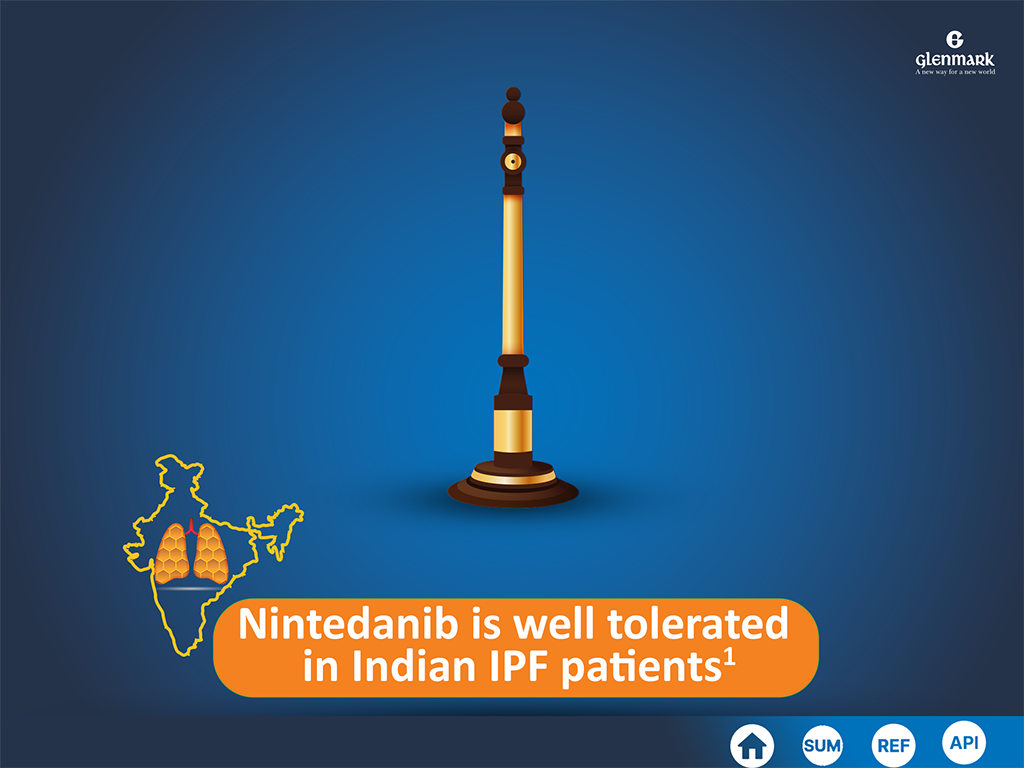
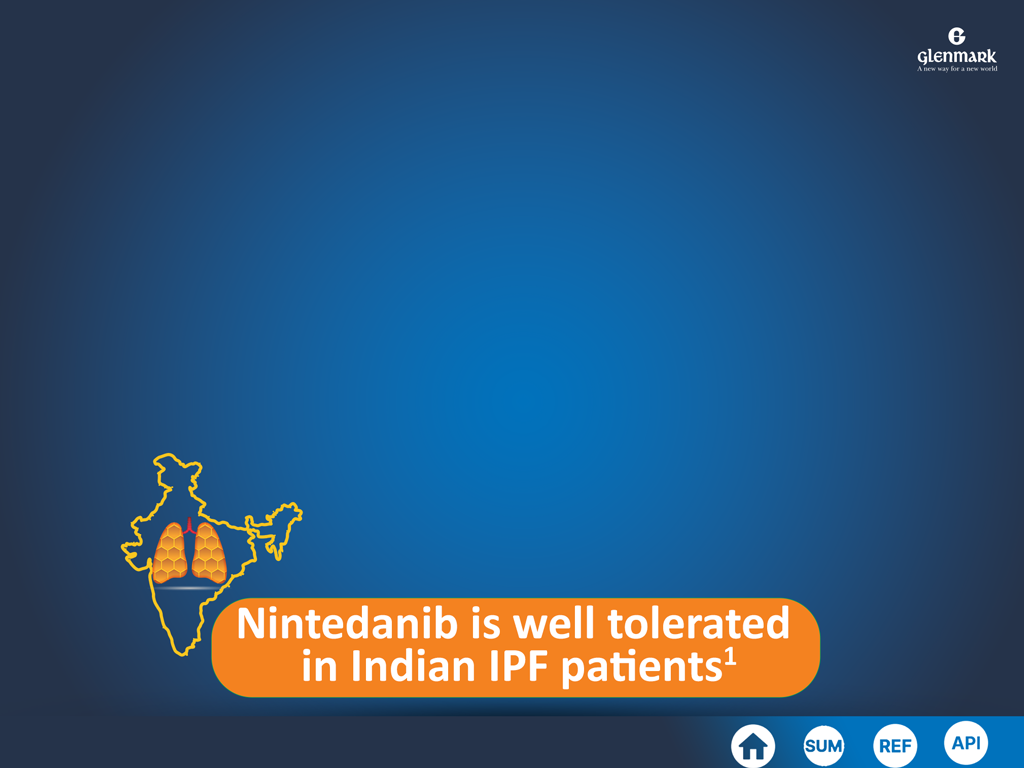
update

diff --git a/index.html b/index.html
@@ -71,7 +71,7 @@ if (typeof(localStorage.getItem("currentcustomslideflag"))!='undefined' && local
 	content='<link rel="stylesheet" type="text/css" href="slide1/slide1.css" media="screen"/><div class="background"><img src="slide2/1.jpg" width="1024" height="768" alt=""></div><div class="hit_1"><img src="slide2/2.jpg" width="1024" height="768" alt=""/></div><div class="hit_pop1" onclick="hit_pop1()"></div><div class="hit_2"><img src="slide3/3.jpg" width="1024" height="768" alt=""/></div><div class="hit_pop2" onclick="hit_pop2()"></div><div class="hit_close1" onclick="hit_close1()"></div><div class="takeCover" onclick="takeCover();"></div><div class="takeSum" onclick="takeSum();"></div>';
 	break;
 	case 3:
-	content='<link rel="stylesheet" type="text/css" href="slide1/slide1.css" media="screen"/><div class="background"><img src="slide3/1.jpg" width="1024" height="768" alt=""></div><div class="hit_1"><img src="slide3/2.jpg" width="1024" height="768" alt=""/></div><div class="hit_pop1" onclick="hit_pop1()"></div><div class="hit_2"><img src="slide3/3.jpg" width="1024" height="768" alt=""/></div><div class="hit_pop2" onclick="hit_pop2()"></div><div class="hit_close1" onclick="hit_close1()"></div><div class="takeCover" onclick="takeCover();"></div><div class="takeSum" onclick="takeSum();"></div>';
+	content='<link rel="stylesheet" type="text/css" href="slide1/slide1.css" media="screen"/><div class="s1_1"><img src="slide1/s1_1.png" width="1024" height="768" alt=""/></div><div class="s1_2"><img src="slide1/s1_2.png"/></div><div class="s1_3"><img src="slide1/s1_3.png"/></div><div class="s1_4"><img src="slide1/s1_4.png"/></div><div class="hit_1"><img src="slide1/2.jpg" width="1024" height="768" alt=""/></div><div class="hit_pop1" onclick="hit_pop1()"></div><div class="hit_2"><img src="slide3/3.jpg" width="1024" height="768" alt=""/></div><div class="hit_pop2" onclick="hit_pop2()"></div><div class="hit_close1" onclick="hit_close1()"></div><div class="takeCover" onclick="takeCover();"></div><div class="takeSum" onclick="takeSum();"></div>';
 	break;
 	}
 
@@ -82,7 +82,7 @@ if (typeof(localStorage.getItem("currentcustomslideflag"))!='undefined' && local
 	 
 }else{
 
-$("#main_content").html('<link rel="stylesheet" type="text/css" href="slide1/slide1.css" media="screen"/><div class="s1_1"><img src="slide1/s1_1.png" width="1024" height="768" alt=""/></div><div class="s1_2"><img src="slide1/s1_2.png"/></div><div class="s1_3"><img src="slide1/s1_3.png"/></div><div class="hit_1"><img src="slide1/2.jpg" width="1024" height="768" alt=""/></div><div class="hit_pop1" onclick="hit_pop1()"></div><div class="hit_2"><img src="slide3/3.jpg" width="1024" height="768" alt=""/></div><div class="hit_pop2" onclick="hit_pop2()"></div><div class="hit_close1" onclick="hit_close1()"></div><div class="takeCover" onclick="takeCover();"></div><div class="takeSum" onclick="takeSum();"></div>');
+$("#main_content").html('<link rel="stylesheet" type="text/css" href="slide1/slide1.css" media="screen"/><div class="s1_1"><img src="slide1/s1_1.png" width="1024" height="768" alt=""/></div><div class="s1_2"><img src="slide1/s1_2.png"/></div><div class="s1_3"><img src="slide1/s1_3.png"/></div><div class="s1_4"><img src="slide1/s1_4.png"/></div><div class="hit_1"><img src="slide1/2.jpg" width="1024" height="768" alt=""/></div><div class="hit_pop1" onclick="hit_pop1()"></div><div class="hit_2"><img src="slide3/3.jpg" width="1024" height="768" alt=""/></div><div class="hit_pop2" onclick="hit_pop2()"></div><div class="hit_close1" onclick="hit_close1()"></div><div class="takeCover" onclick="takeCover();"></div><div class="takeSum" onclick="takeSum();"></div>');
 }
 });
 </script> 

diff --git a/global.js b/global.js
@@ -385,7 +385,7 @@ currentSlide();
 var selectedContentPath='';
 switch(pg_id){
 	case 1:
-	content='<link rel="stylesheet" type="text/css" href="slide1/slide1.css" media="screen"/><div class="s1_1"><img src="slide1/s1_1.png" width="1024" height="768" alt=""/></div><div class="s1_2"><img src="slide1/s1_2.png"/></div><div class="s1_3"><img src="slide1/s1_3.png"/></div><div class="hit_1"><img src="slide1/2.jpg" width="1024" height="768" alt=""/></div><div class="hit_pop1" onclick="hit_pop1()"></div><div class="hit_2"><img src="slide3/3.jpg" width="1024" height="768" alt=""/></div><div class="hit_pop2" onclick="hit_pop2()"></div><div class="hit_close1" onclick="hit_close1()"></div><div class="takeCover" onclick="takeCover();"></div><div class="takeSum" onclick="takeSum();"></div>';
+	content='<link rel="stylesheet" type="text/css" href="slide1/slide1.css" media="screen"/><div class="s1_1"><img src="slide1/s1_1.png" width="1024" height="768" alt=""/></div><div class="s1_2"><img src="slide1/s1_2.png"/></div><div class="s1_3"><img src="slide1/s1_3.png"/></div><div class="s1_4"><img src="slide1/s1_4.png"/></div><div class="hit_1"><img src="slide1/2.jpg" width="1024" height="768" alt=""/></div><div class="hit_pop1" onclick="hit_pop1()"></div><div class="hit_2"><img src="slide3/3.jpg" width="1024" height="768" alt=""/></div><div class="hit_pop2" onclick="hit_pop2()"></div><div class="hit_close1" onclick="hit_close1()"></div><div class="takeCover" onclick="takeCover();"></div><div class="takeSum" onclick="takeSum();"></div>';
 	break;
 	case 2:
 	content='<link rel="stylesheet" type="text/css" href="slide1/slide1.css" media="screen"/><div class="background"><img src="slide2/1.jpg" width="1024" height="768" alt=""></div><div class="hit_1"><img src="slide2/2.jpg" width="1024" height="768" alt=""/></div><div class="hit_pop1" onclick="hit_pop1()"></div><div class="hit_2"><img src="slide3/3.jpg" width="1024" height="768" alt=""/></div><div class="hit_pop2" onclick="hit_pop2()"></div><div class="hit_close1" onclick="hit_close1()"></div><div class="takeCover" onclick="takeCover();"></div><div class="takeSum" onclick="takeSum();"></div>';

diff --git a/slide1/slide1.css b/slide1/slide1.css
@@ -19,10 +19,19 @@
 
 .s1_3 {
 	position: absolute;
-  left: 447px;
-  top: 86px;
-  width: 132px;
-  height: 423px;
+  left: 267px;
+  top: 77px;
+  width: 508px;
+  height: 477px;
+	z-index: 10;
+}
+
+.s1_4 {
+	position: absolute;
+  left: 130px;
+  top: 457px;
+  width: 753px;
+  height: 87px;
 	z-index: 10;
 }
 
@@ -108,7 +117,7 @@
 .s1_2 {
 	position: absolute;
   left: 173px;
-  top: 128px;
+  top: 120px;
   width: 704px;
   height: 411px;
 	animation: swingIn 1s infinite;
